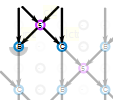
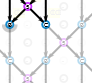
fixed inner/outer twists, consistently closed style, real link

diff --git a/docs/help/Whiting-Index.md b/docs/help/Whiting-Index.md
@@ -330,9 +330,16 @@ The variations on the base diagrams are just different stitches or even just a d
 
 ### A7-H7,G11 &mdash; <a name="val"/>Valenciennes
 
-<img style="float: right" src="w/valenciennes-flipped.png"/>
-
-[![](w/page77a.gif)][P77] [![](w/page100a.gif)][P100] [![](w/page121a.gif)][P121]  [![](w/page140a.gif)][P140] [![](w/page161a.gif)][P161] [![](w/page183a.gif)][P183] [![](w/page205a.gif)][P205] [![](w/page226a.gif)][P226] [![](w/page209a.gif)][P209]
+[![](w/page77a.gif)][P77]
+[![](w/page100a.gif)][P100]
+[![](w/page121a.gif)][P121]
+[![](w/page140a.gif)][P140]
+[![](w/page161a.gif)][P161]
+[![](w/page183a.gif)][P183]
+[![](w/page205a.gif)][P205]
+[![](w/page226a.gif)][P226]
+[![](w/page209a.gif)][P209]
+![](w/valenciennes-flipped.png)
 
 The patterns are more about plaits than pairs so you can use these [torchon][t] diagrams for pricking variations.
 
@@ -341,26 +348,28 @@ The variations are defined with the length of the plaits and the number of twist
 The form generates symmetrical diagrams, sorry, not for IE-11 and older.
 
 <form>
-    <script>
-    function go(){
-        var plait = "c" + "tc".repeat(document.getElementById("plaitLength").value * 1)
-        var innerTwists = document.getElementById("innerTwist").value * 1
-        var outerTwists = document.getElementById("outerTwist").value * 1
-        var tile = "tile=-5-,B-C&shiftColsSW=-2&shiftRowsSW=2&shiftColsSE=2&shiftRowsSE=2"
-        var leftPlait = `${"r".repeat(innerTwists)}${plait}${"r".repeat(innerTwists)}${"l".repeat(outerTwists)}`
-        var rightPlait = `${"l".repeat(innerTwists)}${plait}${"l".repeat(innerTwists)}${"r".repeat(outerTwists)}`
-        var stitches = `b1=ctc&a2=${leftPlait}&c2=${rightPlait}`
-        var href = `https://d-bl.github.io/GroundForge/tiles.html?patchWidth=11&patchHeight=12&${stitches}&${tile}`
-        window.location.assign(href)
-    }
-    </script>
     Inner twists
-    <input name="innerTwist" id="innerTwist" type="number" value="1" min="0" style="width:3em">
+    <input name="innerTwists" id="innerTwists" type="number" value="1" min="0" style="width:3em" onchange="update()">
     Outer twists
-    <input name="outerTwist" id="outerTwist" type="number" value="1" min="0" style="width:3em">
+    <input name="outerTwists" id="outerTwists" type="number" value="1" min="0" style="width:3em" onchange="update()">
     Plait length
-    <input name="plaitLength" id="plaitLength" type="number" value="2" min="0" style="width:3em">
-    <button type="button" onclick="go();return false">Go</button>
+    <input name="plaitLength" id="plaitLength" type="number" value="2" min="0" style="width:3em" onchange="update()">
+    <a id="link" href="#val"><button type="button">Go</button></a>
+    <script>
+    function update(){
+        var plait = "c" + "tc".repeat(document.getElementById("plaitLength").value * 1)
+        var innerTwists = document.getElementById("innerTwists").value * 1
+        var outerTwists = document.getElementById("outerTwists").value * 1
+        var tile = "tile=-5-,B-C&shiftColsSW=-2&shiftRowsSW=2&shiftColsSE=2&shiftRowsSE=2"
+        var leftPlait = `${plait}${"l".repeat(innerTwists)}${"r".repeat(outerTwists)}`
+        var rightPlait = `${plait}${"r".repeat(innerTwists)}${"l".repeat(outerTwists)}`
+        var join = `ctc${"t".repeat(innerTwists)}`
+        var stitches = `b1=${join}&a2=${leftPlait}&c2=${rightPlait}`
+        var href = `https://d-bl.github.io/GroundForge/tiles.html?patchWidth=11&patchHeight=12&${stitches}&${tile}`
+        document.getElementById("link").href = href
+    }
+    update()
+    </script>
 </form>
 
 A more recent overview of Valencienes grounds is published in
